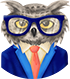
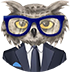
new owl in black suit

diff --git a/404.html b/404.html
@@ -22,44 +22,30 @@
     <link rel="stylesheet" href="css/font-awesome.min.css">
 
     <!--====== Default css ======-->
-    <link rel="stylesheet" href="css/default.css">
-
-    <!--====== magnific popup css ======-->
-    <link rel="stylesheet" href="css/magnific-popup.css">
-
-    <!--====== magnific popup css ======-->
-    <link rel="stylesheet" href="css/dnSlide.css">
-
-    <!--====== meanmenu css ======-->
-    <link rel="stylesheet" href="css/meanmenu.css">
-
-    <!--====== magnific popup css ======-->
-    <link rel="stylesheet" href="css/slick.css">
+    <link rel="stylesheet" href="css/critical.css">
 
     <!--====== Style css ======-->
     <link rel="stylesheet" href="css/style.css">
     <link rel="stylesheet" href="css/404.css">
 
-    <!--====== Responsive css ======-->
-    <link rel="stylesheet" href="css/responsive.css">
+
 
 
 </head>
 
 <body>
-
     <main>
         <div class="wrapper">
             <div class="container">
                 <div class="row align-items-end justify-content-center">
-                    <div class="col-md-4">
-                        <div class="img-wrapper">
+                    <div class="col-lg-4 col-md-4">
+                        <div class="img-fluid">
                             <img src="images/chat/404.png" alt="">
                         </div>
                     </div>
                     <div class="col-md-8 text-left">
-                        <div class="warning-title">Страница не найдена</div>
-                        <div class="warning-subtitle mt-15 mb-25">Ошибка могла произойти по нескольким причинам:</div>
+                        <div class="warning-title mb-30">Страница не найдена</div>
+                        <div class="warning-subtitle mb-15">Ошибка могла произойти по нескольким причинам:</div>
                         <ul class="warning-list">
                             <li><span class="fa fa-times mr-10"></span>Вы ввели неправильный адрес</li>
                             <li><span class="fa fa-times mr-10"></span>Страница, на которую вы хотели зайти, устарела и была удалена</li>

diff --git a/css/style.css b/css/style.css
@@ -1564,9 +1564,9 @@ background: linear-gradient(90deg, rgba(148, 69, 255, 1) 0%, rgba(240, 69, 255, 
     padding: 10px 30px;
     /* background-color: #d18901; */
     /*background-image: linear-gradient(89.82deg, #DF4C2F 1.34%, #FF8269 99.84%, rgba(223, 76, 47, 0) 99.85%);*/
-    /* background: -webkit-gradient(linear, left top, right top, from(rgba(0, 106, 234, 1)), to(rgba(100, 43, 162, 1)));
+     background: -webkit-gradient(linear, left top, right top, from(rgba(0, 106, 234, 1)), to(rgba(100, 43, 162, 1)));
     background: linear-gradient(90deg, rgba(0, 106, 234, 1) 0%, rgba(100, 43, 162, 1) 100%);
-    background-color: #493cb5;  */
+    background-color: #493cb5;
     /* background-color: #185bd9; */
     /* background-color: #6f3caa; */
     background-color: #113382; 
@@ -1581,7 +1581,6 @@ background: linear-gradient(90deg, rgba(148, 69, 255, 1) 0%, rgba(240, 69, 255, 
     font-family: 'Roboto', sans-serif;
     text-transform: capitalize;
     margin: 0 10px 20px 0;
-    /* border: 1px solid transparent; */
 }
 .mobile-bot img {
     width: 100%;

diff --git a/chat-page-full-suit.html b/chat-page-full-suit.html
@@ -59,7 +59,7 @@
                     <picture>
                         <source srcset="images/chat/bot-owl-donor-h750.png" type="image/jpeg" media="(min-width: 768px)">
                         <source srcset="images/chat/bot-owl-mini.png" type="image/jpeg" media="(max-width: 767.98px)">
-                        <img src="images/chat/bot-owl-h750.png" alt="" class="img-fluid">
+                        <img src="images/chat/bot-owl-donor-750.png" alt="" class="img-fluid">
                     </picture>            
                 </div>
             </div>

diff --git a/css/critical.css b/css/critical.css
@@ -15,11 +15,17 @@
 .mb-5 {
     margin-bottom: 5px;
 }
-
+.mb-15 {
+    margin-bottom: 15px;
+}
 .mb-30 {
     margin-bottom: 30px;
 }
+/*-- Margin Right --*/
 
+.mr-10 {
+    margin-right: 10px;
+}
 /*-- Padding Top --*/
 
 .pt-25 {
@@ -65,10 +71,7 @@
 .pt-150 {
     padding-top: 150px;
 }
-
 /*-- Padding Bottom --*/
-
-
 .pb-10 {
     padding-bottom: 10px;
 }

diff --git a/css/404.css b/css/404.css
@@ -26,11 +26,11 @@ main {
 	left: 0;
 	background-repeat: no-repeat;
 }
-.container {
-
+.img-fluid {
+	padding-right: 40px; 
 }
-.img-wrapper {
-	text-align: center;
+.img-fluid img {
+	width: 100%;
 }
 .img-wrapper img {
 	margin: 0 auto;
